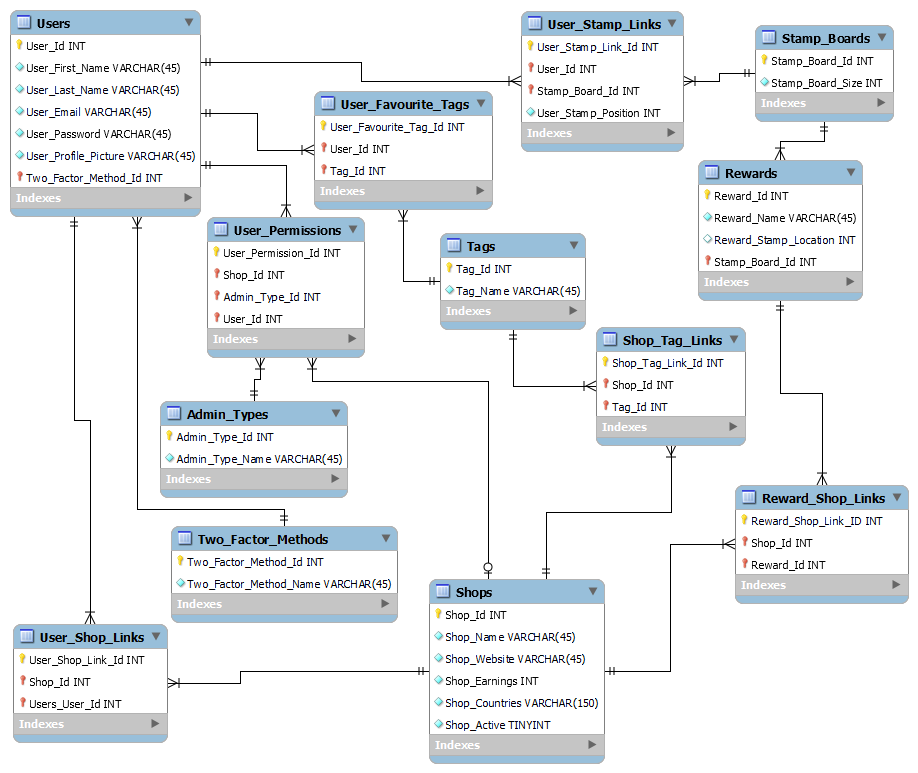
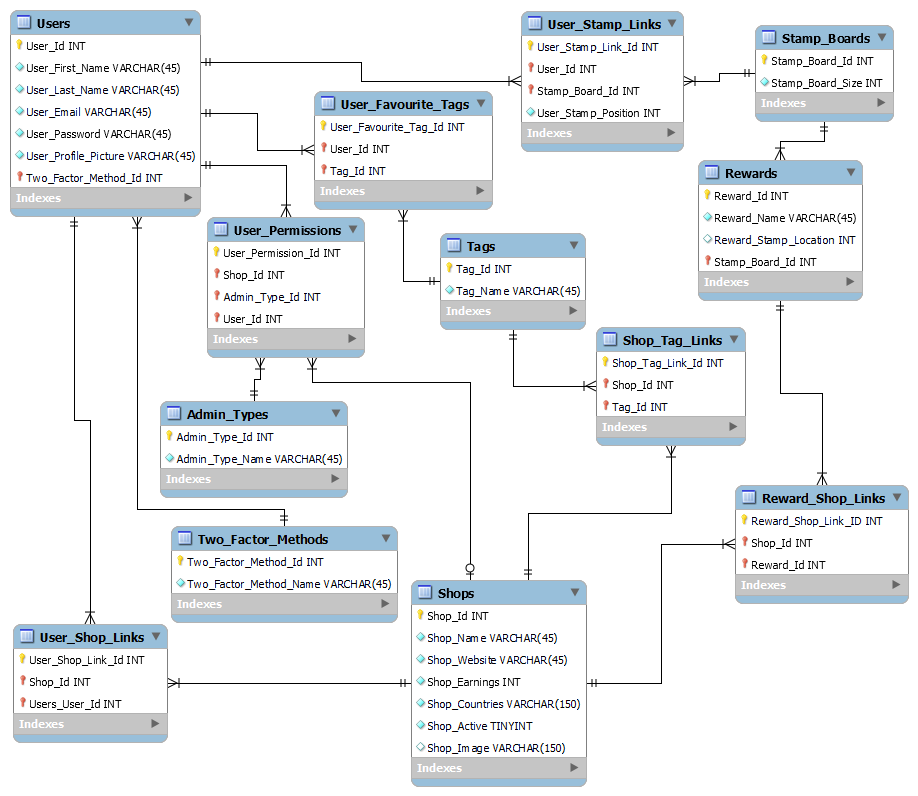
Additional field added to "Shops" table for Image (Saved as a VARCHAR, will be entered as a file location)

Changed region(s): [[0.0, 0.0, 1.0, 0.9935], [0.732, 0.0931, 0.793, 0.1242], [0.2135, 0.1242, 0.2745, 0.1552]]

diff --git a/src/main/java/com/example/clientproject/data/shops/Shops.java b/src/main/java/com/example/clientproject/data/shops/Shops.java
@@ -22,6 +22,7 @@ public class Shops {
     private String shopName;
     private String shopWebsite;
     private int shopEarnings;
+    private String shopImage;
     private String shopCountries;
 
     @Convert(converter = TinyIntToBoolean.class)
